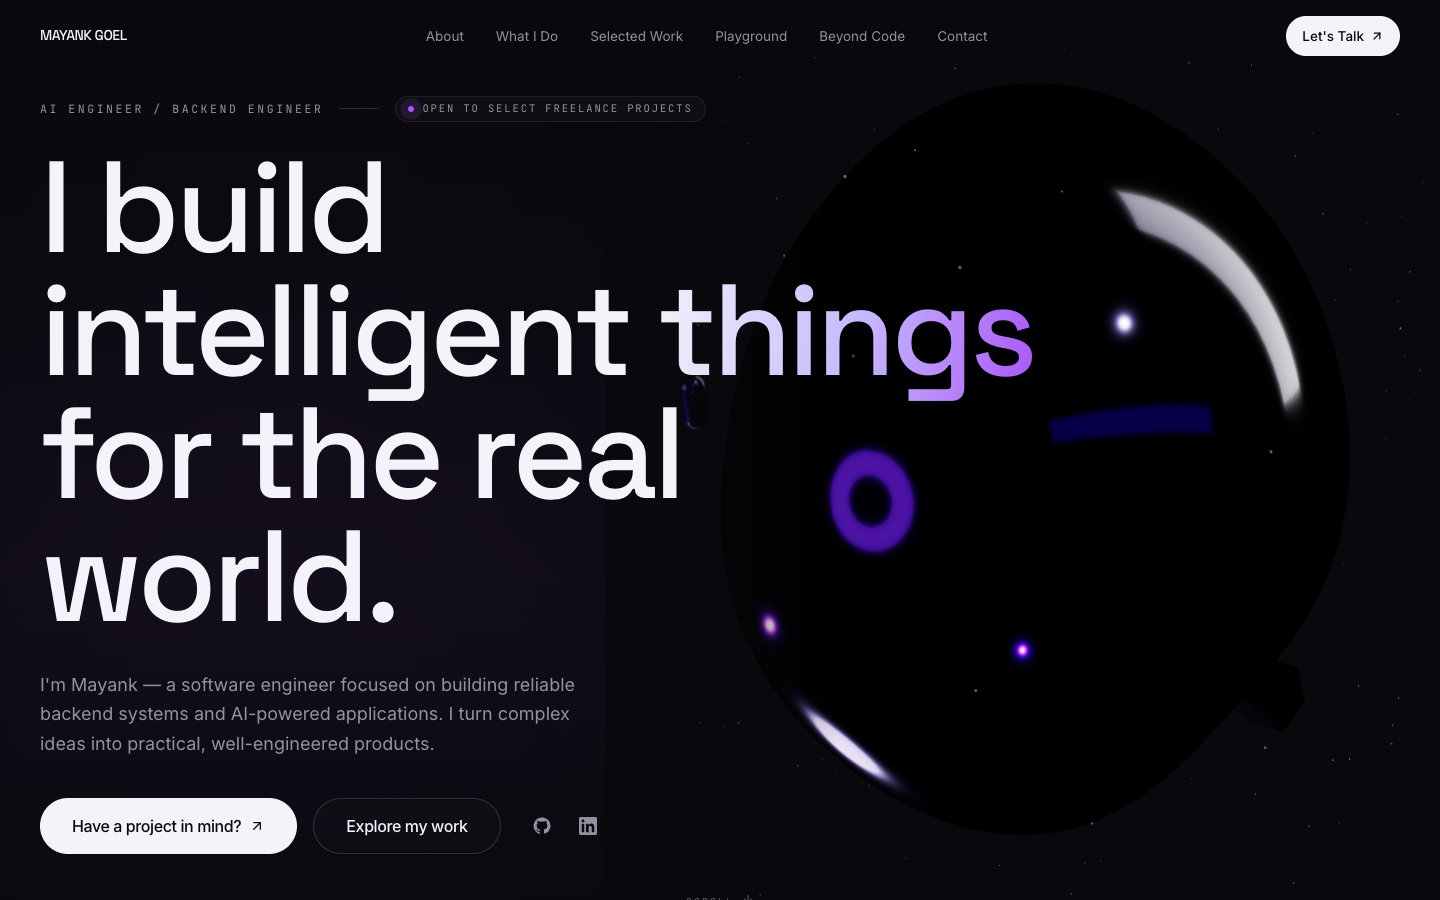
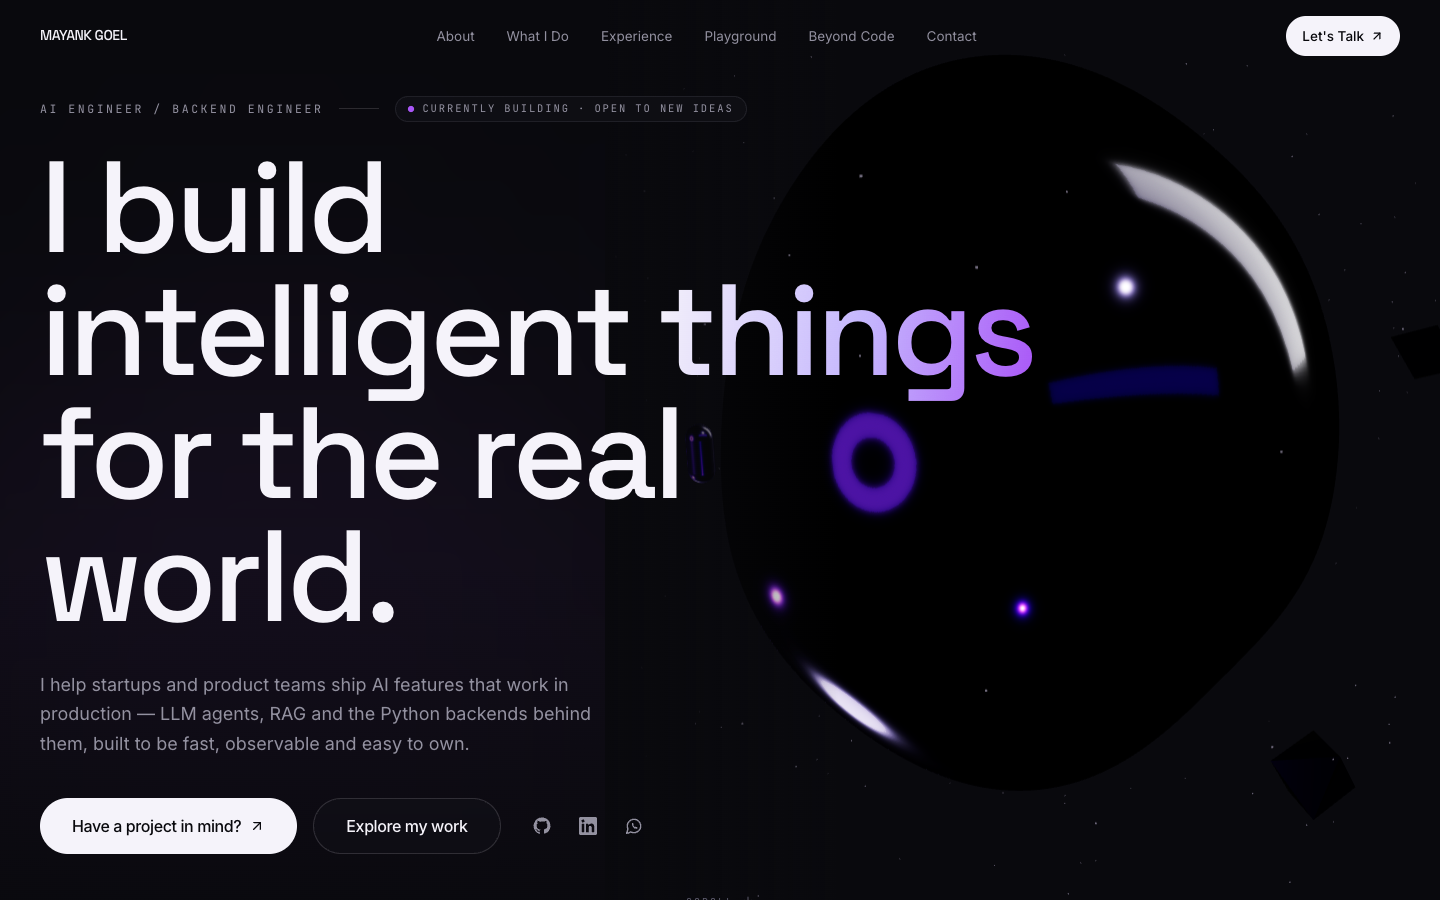
Refresh README screenshots and features
Retake all screenshots from the live site, add an observability
dashboards shot, and document the dashboards, WhatsApp button and
Experience section.

diff --git a/README.md b/README.md
@@ -27,6 +27,8 @@ A dark, motion-heavy personal site that stays fast and accessible:
 - **Hidden terminal.** Press <kbd>`</kbd> anywhere and try `help`, `whoami`, `projects`, `experience`, `skills`, `open work`.
 - **Playground of live experiments.** Canvas demos you can poke: a lattice that bends to your pointer, an LLM token stream, a job-queue orbit, a rippling noise field.
 - **Project cards with architecture diagrams.** Hand-drawn SVG diagrams per project, each card expanding into problem and approach.
+- **Live observability dashboards.** Animated agent-cost and service-health boards (latency, cost by tool, trace waterfall, heap and GC, pods, traffic, network), built in SVG with no chart library and paused when off-screen.
+- **WhatsApp, one tap away.** In the hero, the contact section and a floating button that steps aside when Contact is on screen.
 - **Smooth scroll, custom cursor, magnetic buttons, text reveals.** All of it switches off under `prefers-reduced-motion`.
 - **A contact form that never dead-ends.** It sends via Resend when configured and falls back to a pre-filled `mailto:` when not.
 
@@ -35,15 +37,19 @@ A dark, motion-heavy personal site that stays fast and accessible:
 | About | What I do |
 | --- | --- |
 | <img src="docs/screenshots/about.png" alt="About section" /> | <img src="docs/screenshots/services.png" alt="Services section" /> |
-| **Selected work** | **Playground** |
-| <img src="docs/screenshots/work.png" alt="Selected work" /> | <img src="docs/screenshots/playground.png" alt="Playground experiments" /> |
-| **Terminal easter egg** | **Contact** |
-| <img src="docs/screenshots/terminal.png" alt="Hidden terminal" /> | <img src="docs/screenshots/contact.png" alt="Contact form" /> |
+| **Experience** | **Observability dashboards** |
+| <img src="docs/screenshots/work.png" alt="Experience section" /> | <img src="docs/screenshots/dashboards.png" alt="Agent and service dashboards" /> |
+| **Playground** | **Terminal easter egg** |
+| <img src="docs/screenshots/playground.png" alt="Playground experiments" /> | <img src="docs/screenshots/terminal.png" alt="Hidden terminal" /> |
+
+**Contact**
+
+<img src="docs/screenshots/contact.png" alt="Contact form" width="100%" />
 
 <p align="center">
   <img src="docs/screenshots/mobile-hero.png" alt="Mobile hero" width="260" />
   &nbsp;&nbsp;
-  <img src="docs/screenshots/mobile-work.png" alt="Mobile selected work" width="260" />
+  <img src="docs/screenshots/mobile-work.png" alt="Mobile experience section" width="260" />
 </p>
 
 ## Tech stack
@@ -81,12 +87,12 @@ src/
 ├─ app/                 layout, page, API route, OG image, sitemap, robots
 ├─ components/
 │  ├─ hero/             Hero + R3F scene
-│  ├─ sections/         About, Services, Work, Playground, Beyond, Contact, Diagram
+│  ├─ sections/         About, Services, Work, Playground, Beyond, Contact, Diagram, DashboardVisual
 │  ├─ playground/       canvas demos
 │  ├─ terminal/         the ` terminal
 │  ├─ layout/           Nav, Footer
 │  ├─ providers/        Lenis smooth scroll
-│  └─ ui/               Cursor, Loader, Reveal, Magnetic, Button, Icons
+│  └─ ui/               Cursor, Loader, Reveal, Magnetic, Button, Icons, WhatsAppFab
 ├─ content/             ← all copy lives here
 └─ lib/                 hooks, scroll lock, utils
 ```
@@ -100,7 +106,7 @@ All copy lives in `src/content/`, so the usual changes never touch a component:
 | `site.ts` | name, title, links, availability, nav, stack marquee |
 | `about.ts` | intro, principles, timeline, education, recognition, skills |
 | `services.ts` | "What I do" cards |
-| `projects.ts` | Selected work cards and their diagrams |
+| `projects.ts` | Experience cards and their diagrams / dashboard visuals |
 | `experiments.ts` | Playground tiles |
 | `beyond.ts` | "Beyond the terminal" photos and captions |
 
